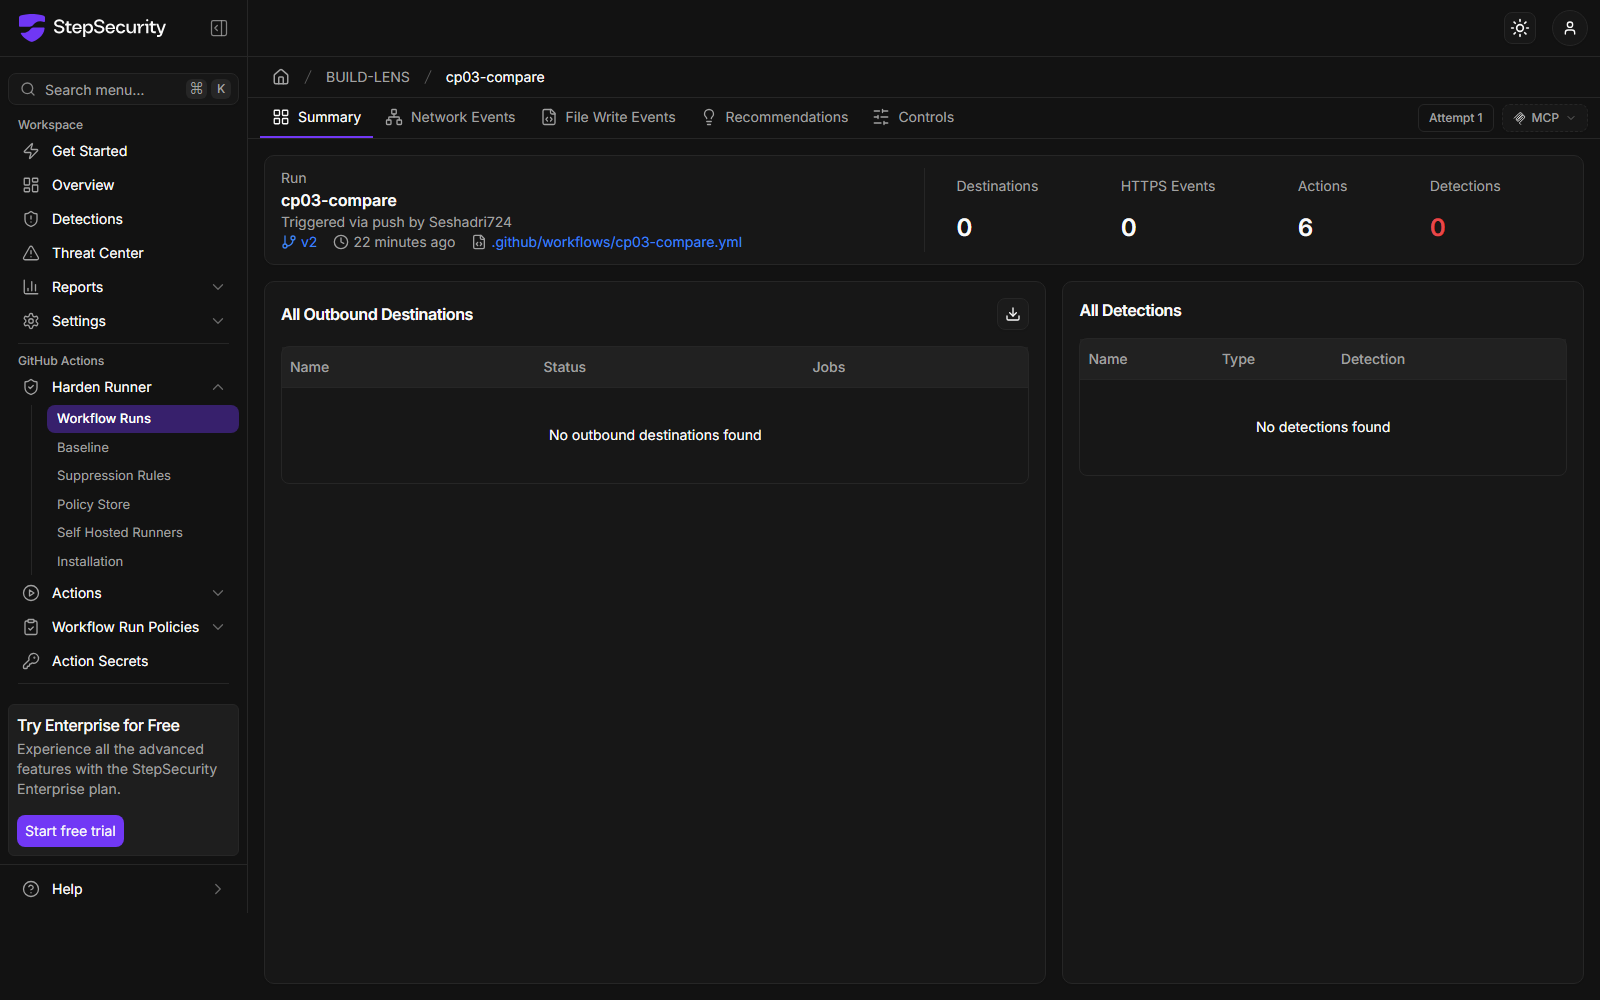
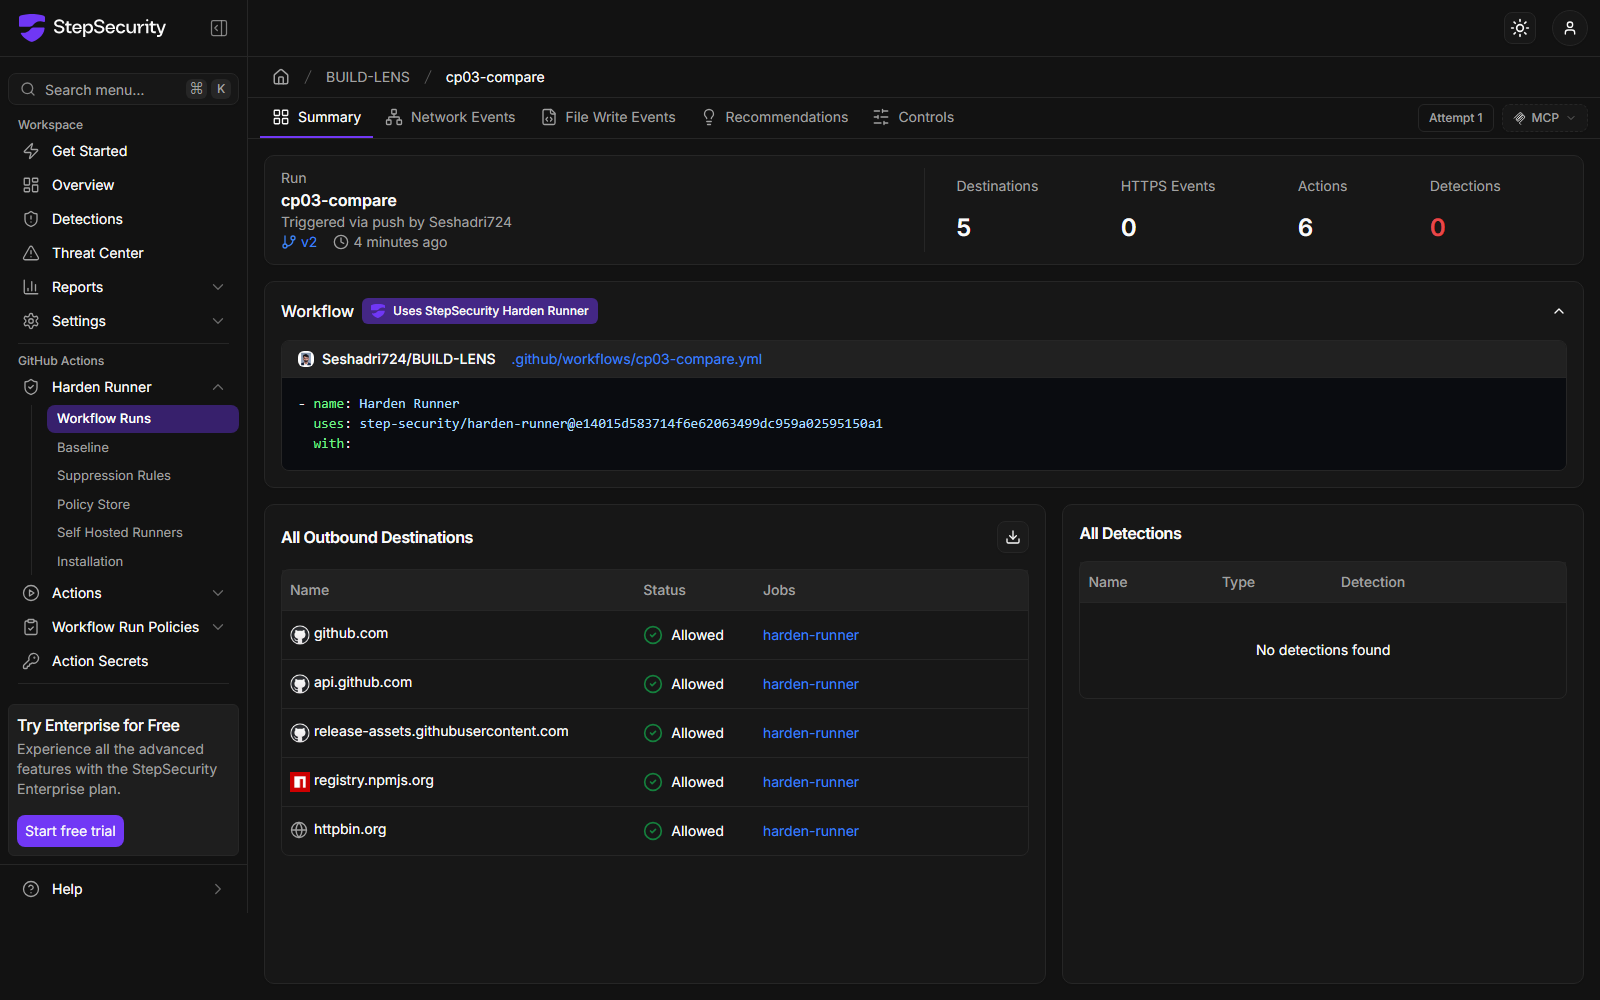
CP-0.3: add bytes, timings and screenshots from comparison run #2

diff --git a/harden-runner-comparison.md b/harden-runner-comparison.md
@@ -16,7 +16,10 @@ Run: [cp03-compare #1](https://github.com/Seshadri724/BUILD-LENS/actions/runs/35
 
 Screenshot: `spike/evidence/cp-0.3/harden-runner.png`
 
-Source: the agent log in the job's "Post Harden-Runner" step. The [insights dashboard](https://app.stepsecurity.io/github/Seshadri724/BUILD-LENS/actions/runs/35874992597) showed 0 network events and 0 detections ~11 minutes after the run, although the agent log recorded the traffic below. Treat that as ingestion lag or onboarding, not a Harden-Runner blind spot; re-check before showing this to anyone.
+Source: the agent log in the job's "Post Harden-Runner" step (run #1), and the insights dashboard.
+
+- **Run #1 dashboard:** 0 destinations, 0 detections, still empty ~22 minutes after the run (`harden-runner-run1-empty.png`), although the agent log recorded the traffic below.
+- **[Run #2 dashboard](https://app.stepsecurity.io/github/Seshadri724/BUILD-LENS/actions/runs/35877972824):** 5 outbound destinations: github.com, api.github.com, release-assets.githubusercontent.com, registry.npmjs.org, **httpbin.org, status "Allowed"**. Detections: **0**. So on the second run, no baseline anomaly fired either (`harden-runner.png`).
 
 Outbound calls during the job (from the agent log):
 
@@ -46,7 +49,13 @@ BuildLens — findings, 1 findings, 1 unique dest hosts (ruleset 1.0.0)
 
 - One finding and no other alerts across the 174-package install. It names the package, the secret file and the process chain.
 - The destination is an IP; nothing says it is httpbin.org. (The IPs differ from Harden-Runner's because each tool ran on its own runner and got its own DNS answer.)
-- Bytes sent, elapsed time and lifecycle are in the step summary, not this log line: `<copy from the summary>`.
+- Run [#2](https://github.com/Seshadri724/BUILD-LENS/actions/runs/35877972824), after findings became workflow annotations (visible on the run page without signing in), reported the same finding with bytes:
+
+```text
+[critical] TAINTED_EGRESS | pkg: telemetry-helper | file: .../spike/fixtures/cp03-app/.env | dest: 18.213.21.177 | bytes sent: 760 | chain: bash → npm → sh → node
+```
+
+  760 bytes against a 123-byte `.env`: the count is everything the process sent to that destination, including the TLS handshake and HTTP headers. It shows data left, not how much of it was the secret.
 
 ## Side by side
 
@@ -56,14 +65,14 @@ BuildLens — findings, 1 findings, 1 unique dest hosts (ruleset 1.0.0)
 | Hostname or only IP? | **Hostname** | IP only |
 | Which dependency did it? | No: `node`, pid 2567 | **`telemetry-helper`** |
 | Did it touch a secret first? Which file? | No | **Yes: `cp03-app/.env`** |
-| How much data went out? | No | Step summary: `<n>` bytes |
+| How much data went out? | No | 760 bytes (run #2) |
 | Would I know what to remove from package.json? | No | Yes |
-| Raised as an alert on the first run? | No, a log line; its anomaly detection needs a baseline from earlier runs | **Yes, critical** |
+| Raised as an alert? | No, on either run: httpbin.org listed as "Allowed", 0 detections | **Yes, critical, both runs** |
 | Noise: other alerts in the same run | None | None |
 | Can it block the egress? | Yes (block mode) | No |
 | Catches known-bad destinations with no secret involved? | Yes (C2 blocklist) | No |
 
-`npm ci` wall time (single run each, noisy; CP-0.2 is the real overhead gate): baseline `__ ms` · BuildLens `__ ms` · Harden-Runner `__ ms`, from each job's step summary. npm itself reported "added 174 packages in 1s" with BuildLens and "in 2s" with Harden-Runner.
+`npm ci` wall time (single run each, noisy; CP-0.2 is the real overhead gate): from run #2: baseline **1,620 ms** · BuildLens **2,197 ms** (+36%) · Harden-Runner **3,090 ms** (+91%). One run each on different runners, so treat these as rough, but neither tool is free on a 1.6-second install.
 
 ## Known BuildLens gaps visible in this comparison
 
@@ -78,5 +87,5 @@ BuildLens — findings, 1 findings, 1 unique dest hosts (ruleset 1.0.0)
 3. **Would a skeptical AppSec engineer see why the second is worth paying for?** Not answered yet. This needs someone outside the project; record their exact words: ___
 
 **Open questions for the reviewer and the next run:**
-- From the second run on, Harden-Runner's baseline would likely flag httpbin.org as a new destination, with its hostname. Is "first run, names the package and the secret" enough on its own?
+- Harden-Runner didn't flag httpbin.org on run #2 either; its baseline may need more runs, or an allowlist in block mode. Would the reviewer say "I'd just set an egress allowlist"? That's the real competitor to BuildLens here, not audit mode.
 - The stronger case for taint tracking is exfiltration to a host that *is* in the baseline (a GitHub gist, the npm registry, a common CDN), which destination baselining can't catch. Test that next if the reviewer is lukewarm.
